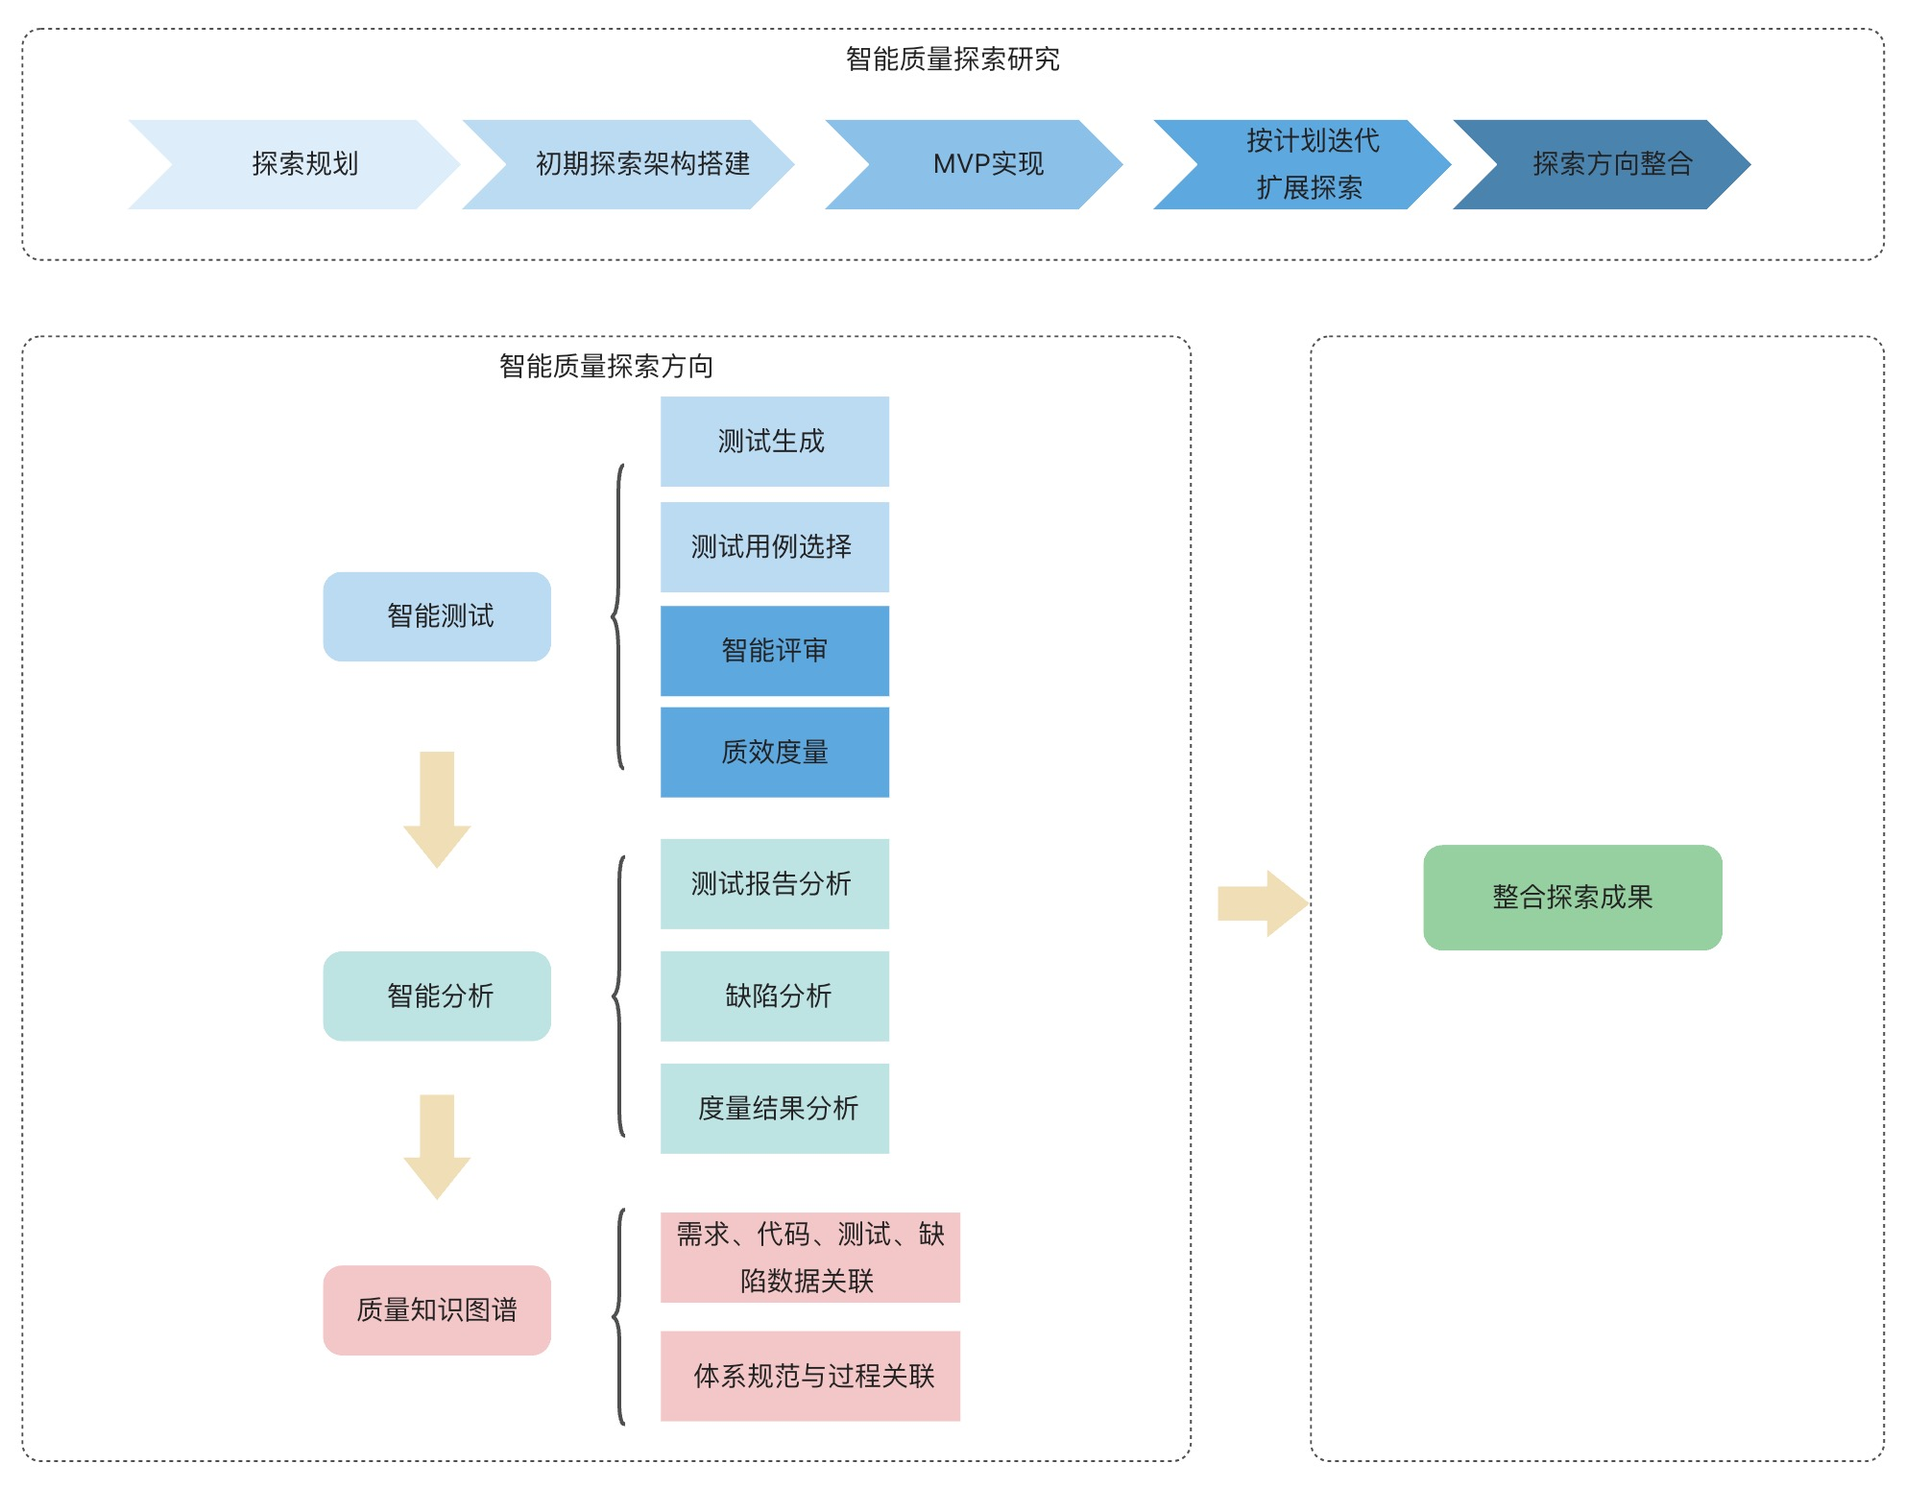
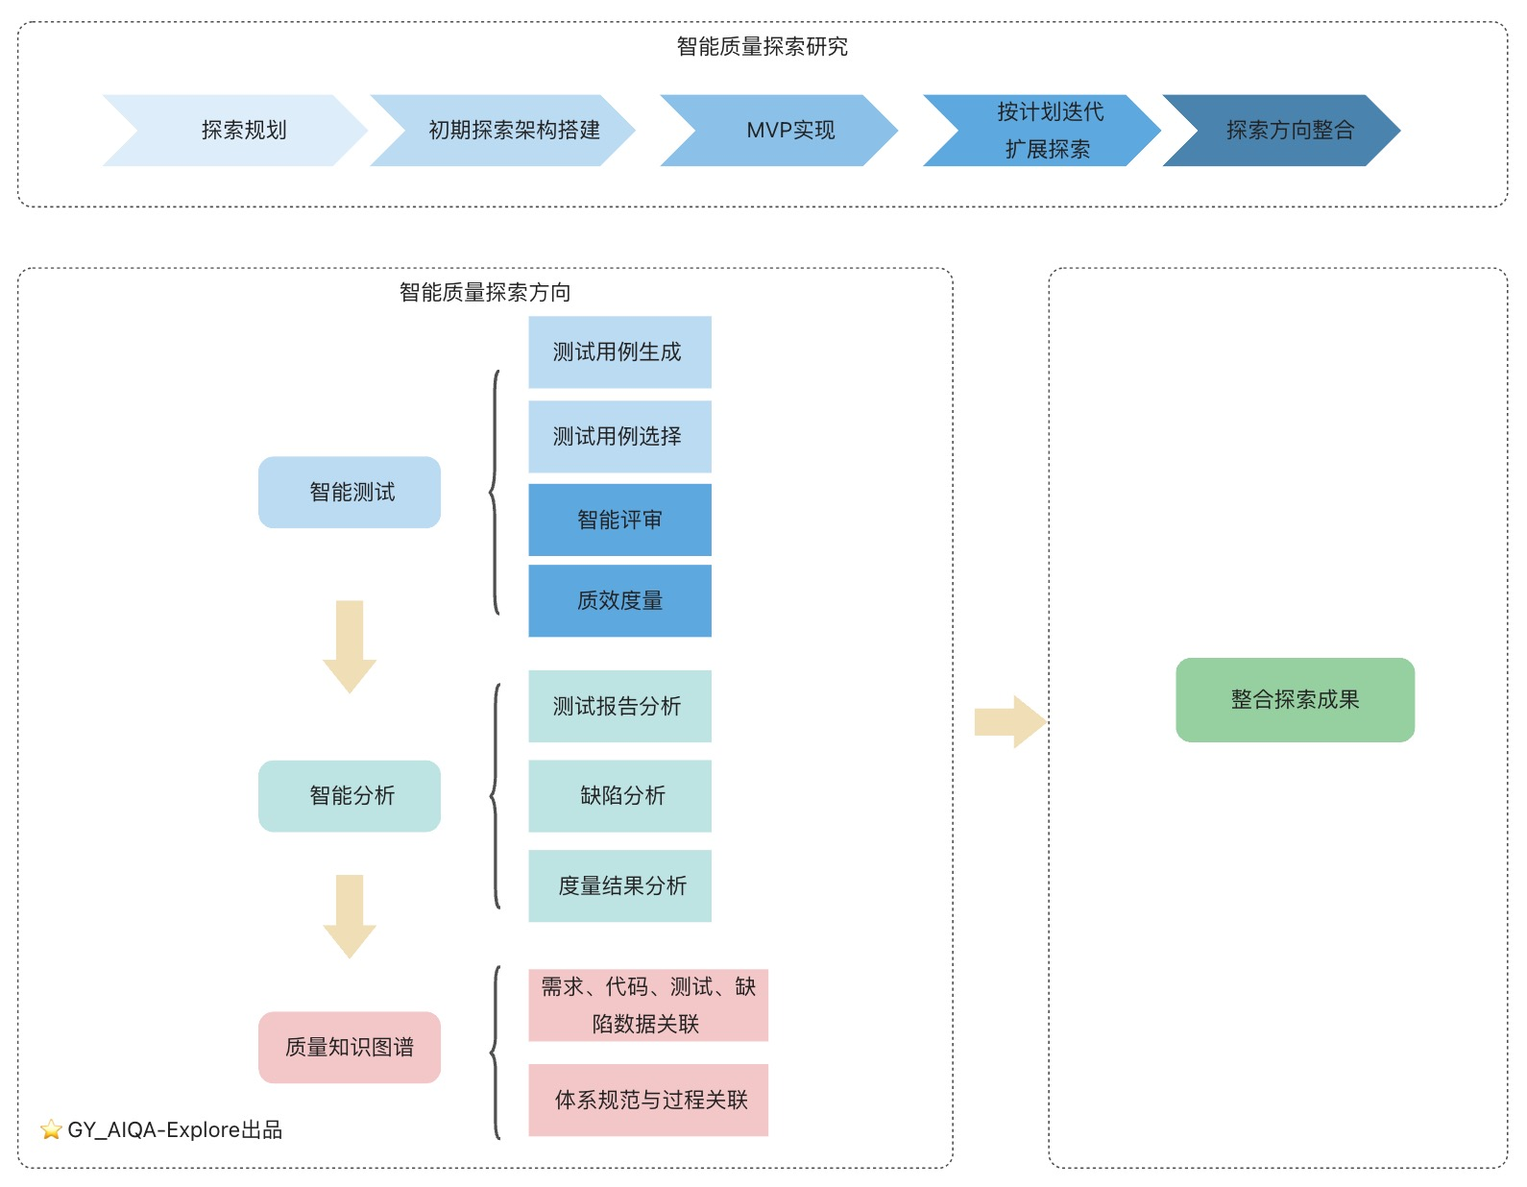
提交接口自动化自动生成的架构设计，以及质量知识图谱的架构设计

diff --git a/ROADMAP.md b/ROADMAP.md
@@ -21,37 +21,39 @@
 ## 路线图
 
 本项目的研究路线图如下，后续会根据探索过程阶段性更新。
+（由于我个人划定一部分精力与时间来探索实践，所以探索将逐点研究与突破。侧重于个人探索研究，非生产级产品）
 ![路线图](./docs/images/design-image/路线图.jpg)
 
 
 ## 详细计划
 
-| 阶段   | 研究分类   | 研究子分类                                      | 预估完成时间 | 备注                 |
-|------|--------|--------------------------------------------|--------|--------------------|
-| 第一阶段 | 智能测试   | 基于API文档分析接口测试点                             | 12月10日 | 过程集成体系规范           |
-| 第一阶段 | 智能测试   | 将测试点结合API生成接口测试用例                          | 12月15日 | 过程集成体系规范           |
-| 第一阶段 | 智能测试   | 将测试用例生成接口测试脚本、测试数据                         | 12月20日 | 过程集成体系规范           |
-| 第一阶段 | 智能测试   | 敏捷规范需求文档为下游测试提效                            | 12月25日 |                    |
-| 第一阶段 | 智能测试   | 基于需求分析生成接口接口测试点（思维导图）                      | 12月30日 | 过程集成体系规范           |
-| 第一阶段 | 智能测试   | 将测试点结合需求和API生成接口测试用例                       | 1月10日  | 过程集成体系规范           |
-| 第一阶段 | 智能测试   | 基于代码分析接口的测试点                               | 1月15日  | 过程集成体系规范           |
-| 第一阶段 | 智能测试   | 基于日志、链路生成多接口测试点                            | 1月25日  | 过程集成体系规范           |
-| 第一阶段 | 智能测试   | 基于设计文档（流程设计）分析业务测试点                        | 1月30日  | 过程集成体系规范           |
-| 第一阶段 | 智能测试   | 将测试点结合需求、设计、代码和API生成接口测试用例                 | 2月10日  | 过程集成体系规范           |
-| 第二阶段 | 智能评审   | 对测试点评审，包含不通过后给建议及更新生成                      | 2月25日  | 过程集成体系规范，可多角色数字人评审 |
-| 第二阶段 | 智能评审   | 对测试用例评审，包含不通过后给建议及更新生成                     | 2月25日  | 过程集成体系规范，可多角色数字人评审 |
-| 第二阶段 | 智能评审   | 对测试数据和测试脚本评审，包含不通过后给建议及更新生成                | 3月10日  | 过程集成体系规范，可多角色数字人评审 |
-| 第三阶段 | 智能分析   | 对接口测试结果分析                                  |        |                    |
-| 第三阶段 | 智能分析   | 对缺陷分类标签、去重优化                               |        |                    |
-| 第三阶段 | 智能分析   | 对缺陷根因分析                                    |        |                    |
-| 第三阶段 | 智能分析   | 对缺陷汇总分析                                    |        |                    |
-| 第四阶段 | 质量知识图谱 | 需求、代码、测试、缺陷数据打通关联                          |        |                    |
-| 第四阶段 | 质量知识图谱 | **质量体系规范与过程关联**                            |        |                    |
-| 第五阶段 | 智能测试   | 基于缺陷更新测试点、测试用例、测试脚本                        |        |                    |
-| 第五阶段 | 智能测试   | 基于API、代码、需求、设计、链路、日志，生成复杂业务接口测试点、测试脚本、测试数据 |        |                    |
-| 第五阶段 | 智能测试   | **变更**（接口、需求、设计、代码等）**对测试点、测试用例的影响更新**     |        |                    |
-| 第五阶段 |  智能测试      | 智能生成的测试点、测试用例、测试数据的版本管理                    |        |                    |
-| 第六阶段 | 整合探索   | 结合前面的探索，整合探索结果，形成生态可沉淀成果或平台                |        |                    |
+| 阶段   | 研究分类   | 研究子分类                                      | 预估完成时间      | 备注                 | 进展      |
+|------|--------|--------------------------------------------|-------------|--------------------|---------|
+| 第零阶段 | 智能探索   | **探索点拆分与架构设计**                                 | 2025年12月9日  |                    | **进行中** |
+| 第一阶段 | 智能测试   | 基于API文档自动分析接口测试点                           | 2025年12月15日 | 过程集成体系规范           | 未开始     |
+| 第一阶段 | 智能测试   | 将测试点结合API生成接口测试用例                          | 2025年12月    | 过程集成体系规范           | 未开始     |
+| 第一阶段 | 智能测试   | 将测试用例生成接口测试脚本、测试数据                         | 2025年12月    | 过程集成体系规范           | 未开始     |
+| 第一阶段 | 智能测试   | 敏捷规范需求文档为下游测试提效                            | 2025年12月    |                    | 未开始     |
+| 第一阶段 | 智能测试   | 基于需求分析生成接口接口测试点（思维导图）                      | 2025年12月    | 过程集成体系规范           | 未开始     |
+| 第一阶段 | 智能测试   | 将测试点结合需求和API生成接口测试用例                       | 2026年1月     | 过程集成体系规范           | 未开始     |
+| 第一阶段 | 智能测试   | 基于代码分析接口的测试点                               | 2026年1月     | 过程集成体系规范           | 未开始     |
+| 第一阶段 | 智能测试   | 基于日志、链路生成多接口测试点                            | 2026年1月     | 过程集成体系规范           | 未开始     |
+| 第一阶段 | 智能测试   | 基于设计文档（流程设计）分析业务测试点                        | 2026年1月     | 过程集成体系规范           | 未开始     |
+| 第一阶段 | 智能测试   | 将测试点结合需求、设计、代码和API生成接口测试用例                 | 2026年2月     | 过程集成体系规范           | 未开始     |
+| 第二阶段 | 智能评审   | 对测试点评审，包含不通过后给建议及更新生成                      | 2026年2月     | 过程集成体系规范，可多角色数字人评审 | 未开始     |
+| 第二阶段 | 智能评审   | 对测试用例评审，包含不通过后给建议及更新生成                     | 2026年2月     | 过程集成体系规范，可多角色数字人评审 | 未开始     |
+| 第二阶段 | 智能评审   | 对测试数据和测试脚本评审，包含不通过后给建议及更新生成                | 2026年3月     | 过程集成体系规范，可多角色数字人评审 | 未开始     |
+| 第三阶段 | 智能分析   | 对接口测试结果分析                                  |             |                    | 未开始     |
+| 第三阶段 | 智能分析   | 对缺陷分类标签、去重优化                               |             |                    | 未开始     |
+| 第三阶段 | 智能分析   | 对缺陷根因分析                                    |             |                    | 未开始     |
+| 第三阶段 | 智能分析   | 对缺陷汇总分析                                    |             |                    | 未开始     |
+| 第四阶段 | 质量知识图谱 | 需求、代码、测试、缺陷数据打通关联                          |             |                    | 未开始     |
+| 第四阶段 | 质量知识图谱 | **质量体系规范与过程关联**                            |             |                    | 未开始     |
+| 第五阶段 | 智能测试   | 基于缺陷更新测试点、测试用例、测试脚本                        |             |                    | 未开始     |
+| 第五阶段 | 智能测试   | 基于API、代码、需求、设计、链路、日志，生成复杂业务接口测试点、测试脚本、测试数据 |             |                    | 未开始     |
+| 第五阶段 | 智能测试   | **变更**（接口、需求、设计、代码等）**对测试点、测试用例的影响更新**     |             |                    | 未开始     |
+| 第五阶段 | 智能测试   | 智能生成的测试点、测试用例、测试数据的版本管理                    |             |                    | 未开始     |
+| 第六阶段 | 整合探索   | 结合前面的探索，整合探索结果，形成生态可沉淀成果或平台                |             |                    | 未开始     |
 
 
 

diff --git a/docs/design/explore-design-doc.md b/docs/design/explore-design-doc.md
@@ -1,0 +1,99 @@
+# 智能探索设计文档
+
+## 背景
+ 
+在梳理测试（接口测试、UI测试、性能测试等）整个过程中，会发现存在不同程度的重复性动作，需要耗费很多人力及时间成本，也存在很多痛点问题（[痛点问题说明](../table/pain-point-problem.md) ）。   
+在智能化时代，我们是否可以结合智能化、自动化的能力，来为测试过程提质增效呢？
+答案是肯定的，我也看到了很多质量人、测试者，都开始学习AI、应用AI，也不乏已有很多优秀实践产物。         
+
+我探索智能测试应用的目的：
+- 帮助自己在实践中学习AI技术
+- 结合痛点问题（[痛点问题说明](../table/pain-point-problem.md)），以及智能化技术，寻找解决路径；
+- 结合自己的多年测试、质量体系、DevOps体系平台等的经验与能力，以及AI技术，探索与沉淀下一代智能质量体系，驱动AI能力在测试过程中起到“流程驱动者”与“决策中心”的作用。
+
+
+## 🚩 逐点探索
+### ⭐ 智能测试
+在智能测试探索过程,优先接口测试自动生成、智能评审相关的实践。优先MVP探索验证。
+
+#### 接口测试   
+##### 1. 全局架构图
+![接口自动化测试](../images/design-image/接口自动测试智能化设计图.jpg)
+
+##### 2. 接口测试活动流程详设
+初步规划各活动的流程设计，后续根据探索情况进行更新。
+
+| 活动          | 输入                                                                                                                         | AI增强活动                                                      | 输出/产物                                                         | AI能力支撑                                                 | 评审点                 |
+|-------------|----------------------------------------------------------------------------------------------------------------------------|-------------------------------------------------------------|---------------------------------------------------------------|--------------------------------------------------------|---------------------|
+| 1.测试输入      | 1）接口文档（Swagger/openAPI）<br/> 2）需求文档<br/> 3）设计文档<br/> 4）代码<br/> 5）日志 <br/> 6）知识库（业务规则&测试设计产物）<br/> 7）历史缺陷 <br/> 8）测试设计的问题反馈 | 1）文档智能解析 <br/> 2）接口依赖分析 <br/> 3）历史模式挖掘 <br/> 4）变更/问题分析      | 1）结构化接口模型 <br/> 2）接口依赖关系图 <br/>                               | 1）NLP文档解析 <br/> 2）信息抽取 <br/> 3）依赖分析                    | 接口规范评审              |
+| 2.测试点设计     | 1）结构化接口模型<br/> 2）业务规则库 <br/> 3）变更范围 <br/> 4）合规要求 <br/>  5）测试点结构模版 <br/> 6）历史测试点                                            | 1）自动生成测试点 <br/> 2）智能边界值分析<br/> 3）异常场景推理                     | 1）测试点列表 <br/> 2）测试点导图 <br/> 3）优先级评分 <br/> 4）自动化生成度评估          | 1）用例模式学习 <br/> 2）边界值分析 <br/> 3）异常场景推理 <br/> 4）测试报告采纳情况 | 测试点覆盖评审             |
+| 3.测试用例设计    | 1）测试点列表 <br/> 2）测试数据模式 <br/> 3）测试场景库                                                                                       | 1）自动生成测试用例<br/> 2）数据驱动扩展 <br/> 3）场景组合优化                     | 1）测试用例库 <br/> 2）用例 -数据映射 <br/> 3） 覆盖率分析报告  <br/> 4）测试点与测试用例映射 | 1）LLM生成 <br/> 2）数据驱动生成 <br/> 3）模式组合优化 <br/> 4）模版适配     | 测试用例有效性评审           |
+| 4.测试脚本与数据设计 | 1）测试用例库 <br/> 2）接口定义 <br/> 3）测试框架模版 <br/> 4）测试数据模式    5）数据设计文档                                                             | 1）自动生成测试脚本 <br/> 2）智能测试数据生成 <br/> 3）依赖数据自动构造                | 1）可执行测试脚本 <br/> 2）测试数据集 <br/> 3）数据约束验证 <br/> 4）测试点与测试用例映射     | 1）代码生成 <br/> 2）模版适配 <br/> 3）数据合成 <br/> 4）约束            | 脚本质量评审 <br/> 数据质量评审 |
+| 5.测试计划与范围选择 | 1）测试用例集 <br/> 2）代码变更集 <br/> 3）资源约束（可选）  <br/> 4）测试点、测试用例、测试脚本、测试数据的变更集                                                     | 1）自动生成测试计划 <br/>2）智能测试范围推荐 <br/>3）风险评估与优先级排序 <br/> 4）执行时间预估 | 1）测试计划文档 <br/> 2）执行优先级排序<br/>  3）资源分配建议（可选）                   | 1）风险预测 <br/> 2）影响度分析 <br/> 3）资源优化（可选） <br/> 4）时间估计     | 测试计划合理性评审           |
+| 6.测试执行      | 1）测试计划 <br/> 2）测试脚本集 <br/> 3）测试数据集 <br/> 4）环境配置                                                                            | 待规划                                                         | 1）执行结果集 <br/> 2）执行日志 <br/> 3）性能数据                             | 待规划                                                    | 执行过程监控评审            |
+| 7.测试结果分析    | 1）执行结果集 <br/> 2）系统日志 <br/> 3）性能数据                                                                                          | 1）自动结果分析 <br/> 2）根因自动定位 <br/> 3）趋势预测分析                      | 1）测试分析报告 <br/> 2）问题定位建议 <br/> 3）质量趋势图                         | 1）模式识别 <br/> 2）根因定位 <br/> 3） 关联分析 <br/> 4）趋势预测         | 分析结果准确性评审           |
+| 8.缺陷分析      | 1）测试失败用例 <br/> 2）系统日志 <br/> 3）历史缺陷库                                                                                        | 1）自动缺陷分类 <br/> 2）相似缺陷推荐 <br/> 3）修复建议生成                      | 1）缺陷报告 <br/> 2）修复建议<br/> 3）缺陷趋势分析                             | 1）相似缺陷检索 <br/> 2）模式匹配 <br/> 3）修复建议生成                   | 缺陷有效性评审             |
+
+
+##### 3. AI能力支撑层
+- 智能生成引擎(优先级1)
+  - 文档自动解析
+  - 测试点自动生成
+  - 用例自动生成
+  - 测试脚本自动生成
+  - 测试数据自动构造
+  - 报告自动生成
+- 智能分析引擎（优先级3）
+  - 测试结果智能分析
+  - 关联智能分析
+  - 根因自动定位
+  - ...
+- 智能评审引擎(优先级2)
+  - 智能评审输入项
+  - 智能评审测试点
+  - 智能评审测试用例
+  - 智能评审测试脚本和测试数据
+  - 智能评审测试结果
+  - 智能评审缺陷
+- 智能优化引擎（优先级4）（结合质量知识图谱探索）
+  - 测试点优化
+  - 测试用例优化
+  - 测试脚本优化
+  - 测试数据优化
+  - 报告自动优化
+- 智能预测引擎（优先级5）（结合质量知识图谱探索）
+  - 回归测试范围
+  - 缺陷风险预测
+  - 质量趋势预测
+  - ...
+- 智能助手（优先级6）（结合质量知识图谱探索）
+  - 回答相关建议
+  - 回答相关问题
+  - 回答相关规范
+  - 进入接口测试流程
+
+##### 4. 详细流程
+待完善
+
+
+#### UI测试
+待完善
+
+
+
+### ⭐ 质量知识图谱
+
+#### 架构设计
+![质量知识图谱](../images/design-image/质量知识图谱架构图.jpg)
+
+
+### ⭐ 质量效能度量
+
+
+
+
+
+
+## 🚩 探索整合
+## 全景设计图
+待完善

diff --git a/docs/case-stuies/research-case.md b/docs/case-stuies/research-case.md
@@ -1,0 +1,21 @@
+# 调研案例
+
+## 智能测试
+1. [测试用例智能体：LangGraph版多智能体协作测试用例生成](https://mp.weixin.qq.com/s/VzO-o7tchKeBB-i6pajvXg)
+2. [Figma设计+Gemini AI：测试用例生成的新标准（比你想快100倍）](https://mp.weixin.qq.com/s/rqAPFk2hICvsRxQJcxs0wg)
+3. [测试用例智能体：让AI拥有10年测试用例编写能力的提示词工程](https://mp.weixin.qq.com/s/e-2kSMlDo2SngX6D-h6DSw)
+4. [AI测试的主要研究方向介绍](https://mp.weixin.qq.com/s/muijqyR1DN3DyqQp5eozTw)
+5. [测试用例智能体：终结低效！基于需求文档的多角色协作的智能体设计方案](https://mp.weixin.qq.com/s/anhqpI9tA8VqDJoPn5AOCQ)
+6. [XMind2TestCase一键生成专业测试用例](https://mp.weixin.qq.com/s/dPJoLHccXFaJJk-emzzIjg)  
+7. [字节AI神操作：AI生成接口自动化测试用例，效率拉满](https://mp.weixin.qq.com/s/cs0nS2qu0S2qBdwv3_M7gw)
+8. [接口测试智能体：当智能体遇上接口测试，真正的挑战在哪里？](https://mp.weixin.qq.com/s/2IAxNGA0buuSTq3D3Ds2nQ)
+
+## 智能分析
+
+
+## 智能CI/CD
+1. [持续测试新篇章：当MCP智能体遇见CI/CD流水线](https://mp.weixin.qq.com/s/RK1V7ZG4p6l-x_8XGsKzMA)
+
+
+## 智能度量
+1. [2025 DORA报告](../theory/2025年DORA报告：人工智能辅助软件开发现状调查报告发布QECon出品.pdf)

diff --git a/docs/design/quality-and-efficiency-measurement-plan.md b/docs/design/quality-and-efficiency-measurement-plan.md
@@ -1,0 +1,1 @@
+# 质量效能度量
